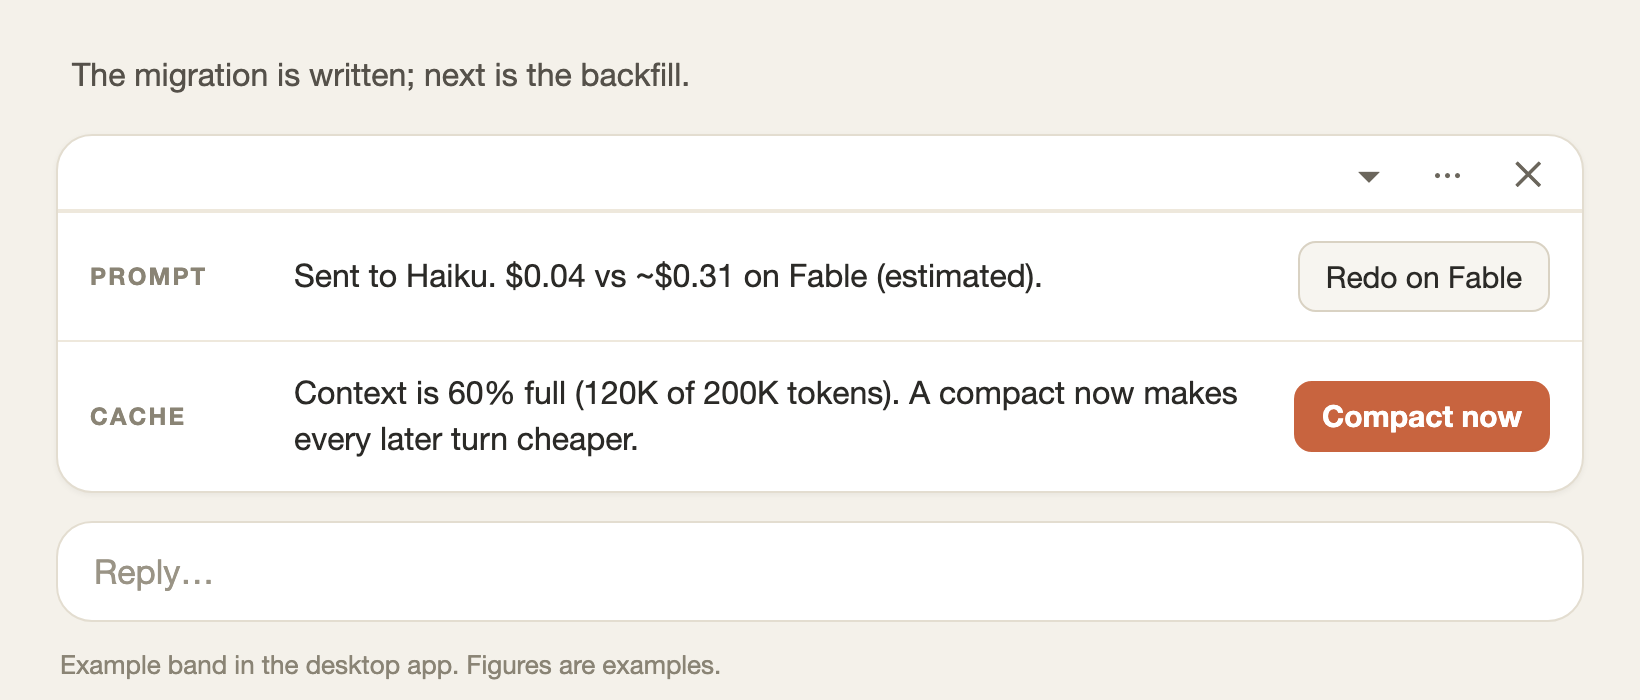
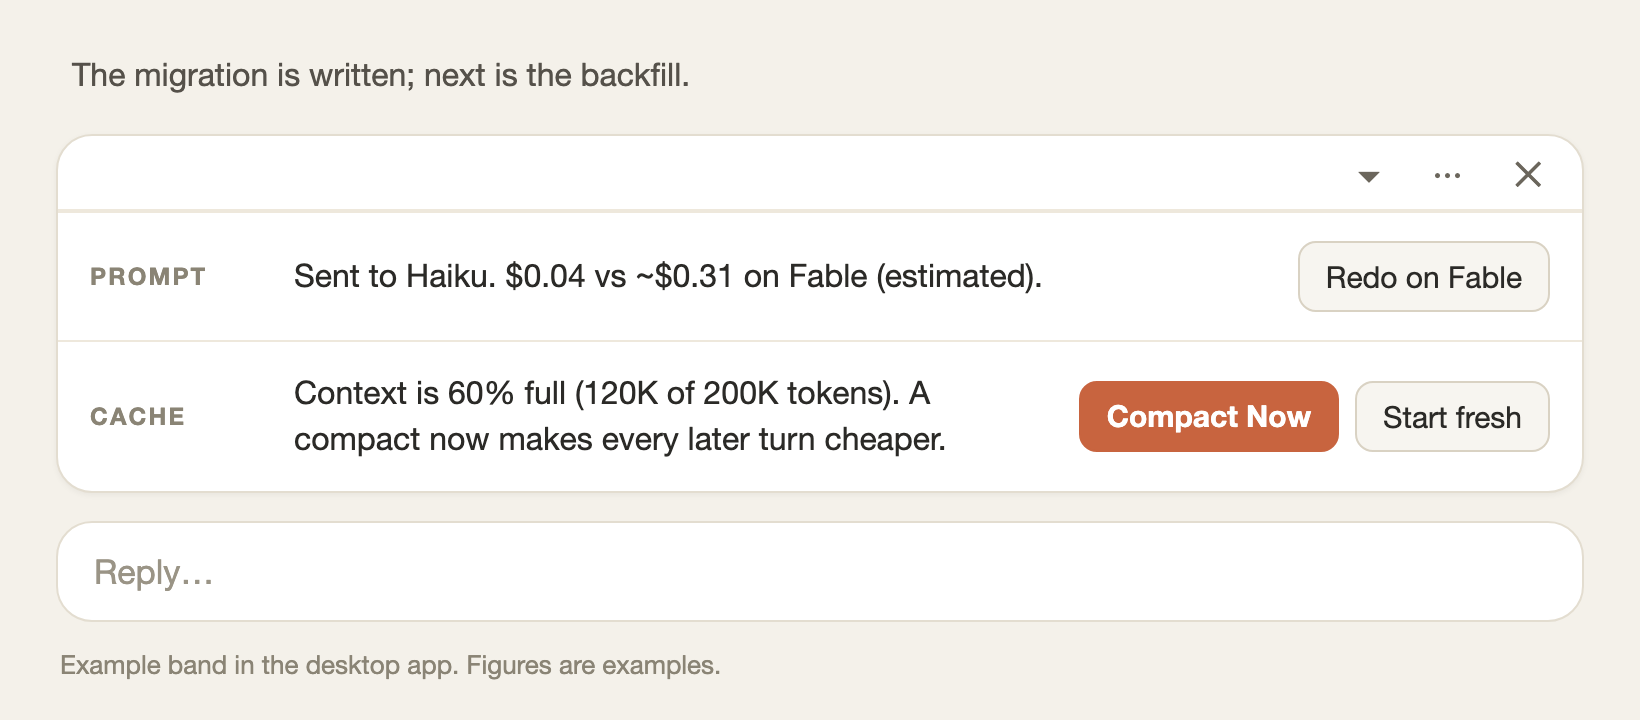
README pictures: current Cache row (Compact Now, Save Handoff), Start fresh, and a desktop usage-limit picture

diff --git a/docs/images/src/band.html b/docs/images/src/band.html
@@ -39,8 +39,9 @@ const scenes = {
   sent: `<div class="chat">${task}${said('Done: 41 declarations changed across 9 files; the tests pass.')}</div>${band(row('PROMPT', 'Sent to Sonnet. ~7% of Opus usage ($0.18 vs ~$2.41).', ['Redo on Opus']))}${reply}`,
   lowered: `<div class="chat">${you('What does the <code>--scope</code> flag do in this install command?')}</div>${band(row('PROMPT', 'Effort lowered: high → low. Why: A short answer needs no deep thinking.', ['Redo at high']))}${reply}`,
   raised: `<div class="chat">${you('Fix the failing date parser test.')}${said('Running the tests… 2 failed after the fix.')}</div>${band(row('PROMPT', 'Effort raised mid-turn: low → medium (two fixes in a row left the tests red).'))}${reply}`,
-  warm: `<div class="chat">${said('Done. All 3 steps are finished and committed.')}</div>${band(row('CACHE', 'Goes cold in 55 min (19:10) · coming back after costs about $1.56', ['!Keep warm 8 h', 'Wrap up']))}${reply}`,
-  context: `<div class="chat">${said('The migration is written; next is the backfill.')}</div>${band(row('PROMPT', 'Sent to Haiku. $0.04 vs ~$0.31 on Fable (estimated).', ['Redo on Fable']), row('CACHE', 'Context is 60% full (120K of 200K tokens). A compact now makes every later turn cheaper.', ['!Compact now']))}${reply}`,
+  warm: `<div class="chat">${said('Done. All 3 steps are finished and committed.')}</div>${band(row('CACHE', '▰▰▰▰▰▰▰▰▱▱ until 7:10 PM · ~$1.56 to come back', ['Compact Now', 'Save Handoff']))}${reply}`,
+  context: `<div class="chat">${said('The migration is written; next is the backfill.')}</div>${band(row('PROMPT', 'Sent to Haiku. $0.04 vs ~$0.31 on Fable (estimated).', ['Redo on Fable']), row('CACHE', 'Context is 60% full (120K of 200K tokens). A compact now makes every later turn cheaper.', ['!Compact Now', 'Start fresh']))}${reply}`,
+  limit: `<div class="chat">${said('The refactor is done; the tests pass.')}</div>${band(row('CACHE', 'Near your 5-hour limit, resets 9:40 PM. Compact now to save ~$0.59 after the reset.', ['!Compact Now']))}${reply}`,
 };
 const k = location.hash.slice(1) || 'context';
 document.getElementById('s').innerHTML = scenes[k] + '<div class="cap">Example band in the desktop app. Figures are examples.</div>';

diff --git a/README.md b/README.md
@@ -81,9 +81,11 @@ A band above the prompt says what rightsize did and why, with buttons to undo it
 
 **Cache and context.** Keep the cache warm while you are away, or compact before the conversation gets costly.
 
-![Band: Goes cold in 55 min (19:10) · coming back after costs about $1.56. Buttons: Keep warm 8 h, Wrap up](docs/images/d-warm.png)
+![Band: cache bar, until 7:10 PM · ~$1.56 to come back. Buttons: Compact Now, Save Handoff](docs/images/d-warm.png)
 
-![Band with two rows: Sent to Haiku, $0.04 vs ~$0.31 on Fable; Context is 60% full (120K of 200K tokens), with Redo on Fable and Compact Now buttons](docs/images/d-context.png)
+![Band with two rows: Sent to Haiku, $0.04 vs ~$0.31 on Fable; Context is 60% full (120K of 200K tokens), with Redo on Fable, Compact Now and Start fresh buttons](docs/images/d-context.png)
+
+![Band: Near your 5-hour limit, resets 9:40 PM. Compact now to save ~$0.59 after the reset. Button: Compact Now](docs/images/d-limit.png)
 
 <details>
 <summary>In the terminal</summary>
@@ -95,8 +97,6 @@ The same rows, one line each, with buttons below. Screenshots from a real sessio
 ![Terminal band: Sending this to a Sonnet subagent at medium effort](docs/images/2-hands-off.png)
 
 ![Terminal band: Sent to Sonnet, API-equivalent $0.18 vs about $2.41 (estimated)](docs/images/3-result.png)
-
-![Terminal band: Near your 5-hour limit, resets 21:40, Compact now to save about $0.59 after the reset](docs/images/band-limit-advice.png)
 
 </details>
 
